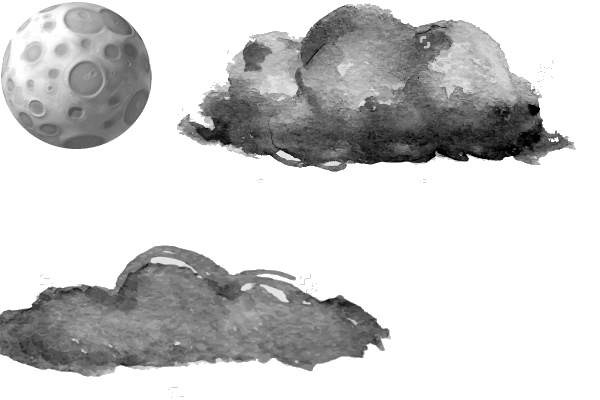
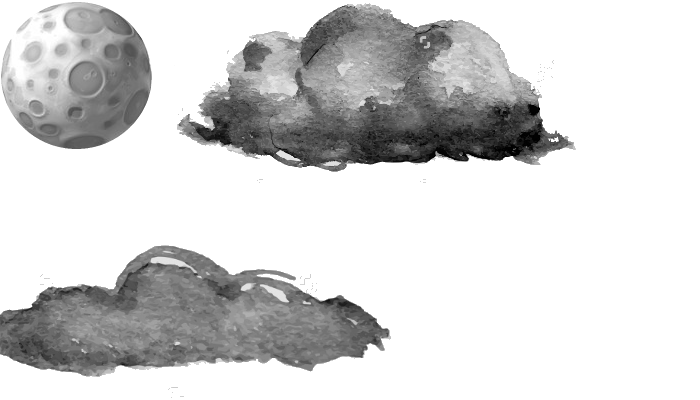
Background has foreground items

Changed region(s): [[0.0, 0.0, 0.96, 0.45], [0.03, 0.6, 0.66, 0.96]]

diff --git a/implementation/src/main/java/br/com/guigasgame/background/Background.java b/implementation/src/main/java/br/com/guigasgame/background/Background.java
@@ -12,47 +12,43 @@ import br.com.guigasgame.drawable.TextureDrawable;
 import br.com.guigasgame.resourcemanager.TextureResourceManager;
 import br.com.guigasgame.updatable.UpdatableFromTime;
 
-public class Background implements UpdatableFromTime, Drawable
+public class Background implements UpdatableFromTime
 {
 	private List<BackgroundGameObject> backgroundGameObjects;
+	private List<BackgroundGameObject> foregroundGameObjects;
 	private final Texture itemsTexture;
 	private final Texture backgroundTexture;
-	private List<Drawable> drawableList;
+	private TextureDrawable texturePanoramicDrawable;
+//	private List<Drawable> drawableList;
 
 	public Background(BackgroundFile backgroundFile)
 	{
 		backgroundGameObjects = new ArrayList<>();
+		foregroundGameObjects = new ArrayList<>();
 		itemsTexture = TextureResourceManager.getInstance().getResource(backgroundFile.getItemsTextureFilename());
 		itemsTexture.setSmooth(true);
 		backgroundTexture = TextureResourceManager.getInstance().getResource(backgroundFile.getBackgroundTextureFilename());
 		backgroundTexture.setSmooth(true);
-		drawableList = new ArrayList<>();
-		drawableList.add(new TextureDrawable(backgroundTexture));
+		
+		texturePanoramicDrawable = new TextureDrawable(backgroundTexture);
 		
 		initializeBackgroundItems(backgroundFile);
-		sortBackgroundItems();
-		addBackgroundItemsToDrawableList();
+		sortItems();
 	}
 
-	private void addBackgroundItemsToDrawableList()
+	private void sortItems()
 	{
-		for( BackgroundGameObject backgroundItem : backgroundGameObjects )
-		{
-			drawableList.add(backgroundItem);
-		}
-	}
-
-	private void sortBackgroundItems()
-	{
-		backgroundGameObjects.sort(new Comparator<BackgroundGameObject>()
+		Comparator<BackgroundGameObject> comparator = new Comparator<BackgroundGameObject>()
 		{
 			@Override
 			public int compare(BackgroundGameObject a, BackgroundGameObject b)
 			{
 				return (int) (b.getDistanceFromCamera() - a.getDistanceFromCamera());
 			}
-		});
+		};
 		
+		backgroundGameObjects.sort(comparator);
+		foregroundGameObjects.sort(comparator);
 	}
 
 	private void initializeBackgroundItems(BackgroundFile backgroundFile)
@@ -61,14 +57,25 @@ public class Background implements UpdatableFromTime, Drawable
 		for( BackgroundFileItem backgroundItem : backgroundItems )
 		{
 			BackgroundGameObject backgroundGameObject = new BackgroundGameObject(backgroundItem, itemsTexture);
-			backgroundGameObjects.add(backgroundGameObject);
+			if (backgroundGameObject.getDistanceFromCamera() > 0)
+				backgroundGameObjects.add(backgroundGameObject);
+			else
+				foregroundGameObjects.add(backgroundGameObject);
 		}
 	}
 	
-	@Override
-	public void draw(RenderWindow renderWindow)
+	public void drawBackgroundItems(RenderWindow renderWindow)
 	{
-		for( Drawable drawable : drawableList )
+		texturePanoramicDrawable.draw(renderWindow);
+		for( Drawable drawable : backgroundGameObjects )
+		{
+			drawable.draw(renderWindow);
+		}
+	}
+
+	public void drawForegroundItems(RenderWindow renderWindow)
+	{
+		for( Drawable drawable : foregroundGameObjects )
 		{
 			drawable.draw(renderWindow);
 		}
@@ -78,6 +85,10 @@ public class Background implements UpdatableFromTime, Drawable
 	public void update(float deltaTime)
 	{
 		for( BackgroundGameObject gameObject : backgroundGameObjects )
+		{
+			gameObject.update(deltaTime);
+		}
+		for( BackgroundGameObject gameObject : foregroundGameObjects )
 		{
 			gameObject.update(deltaTime);
 		}

diff --git a/implementation/src/main/java/br/com/guigasgame/gamemachine/RoundGameState.java b/implementation/src/main/java/br/com/guigasgame/gamemachine/RoundGameState.java
@@ -41,6 +41,7 @@ public class RoundGameState implements GameState
 	private List<GameObject> gameObjectsList;
 	private Background background;
 	private GameItemController gameItemController;
+	private Scenery scenery;
 
 	public RoundGameState(List<HeroTeam> teams, Scenery scenery, Background background) throws JAXBException
 	{
@@ -53,9 +54,12 @@ public class RoundGameState implements GameState
 		world = new World(gravity);
 		world.setContactListener(new CollisionManager());
 		this.background = background;
+		this.scenery = scenery;
 		gameItemController = new GameItemController(scenery);
 		
-		initializeGameObject(Arrays.asList(scenery));
+		
+		scenery.attachToWorld(world);
+		scenery.onEnter();
 		
 		for( HeroTeam team : teams )
 		{
@@ -185,6 +189,7 @@ public class RoundGameState implements GameState
 		world.clearForces();
 		
 		background.update(updateTime);
+		scenery.update(deltaTime);
 		for( GameObject gameObject : gameObjectsList )
 		{
 			gameObject.update(updateTime);
@@ -198,12 +203,14 @@ public class RoundGameState implements GameState
 	@Override
 	public void draw(RenderWindow renderWindow)
 	{
-		background.draw(renderWindow);
+		background.drawBackgroundItems(renderWindow);
 		world.drawDebugData();
 
 		for( GameObject gameObject : gameObjectsList )
 		{
 			gameObject.draw(renderWindow);
 		}
+		scenery.draw(renderWindow);
+		background.drawForegroundItems(renderWindow);
 	}
 }
